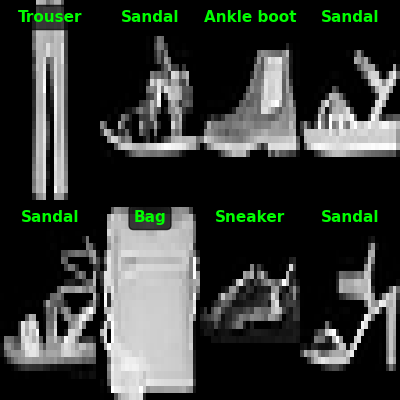
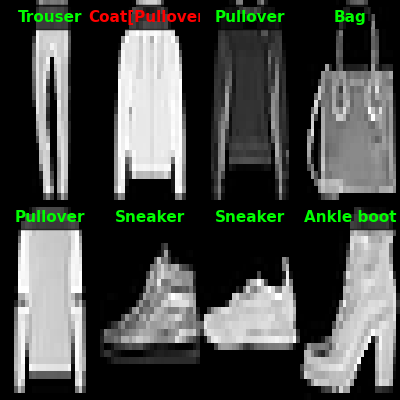
readme update and code comments

diff --git a/src/compair_models.py b/src/compair_models.py
@@ -10,16 +10,17 @@ import random
 
 # 91.27% accuracy  - BASE MODEL
 MODEL_PATH_BASE = "../models/model_base.pth"
-# 90.17% accuracy  - QUANT ONLY MODEL
+# 91.17% accuracy  - QUANT ONLY MODEL (no improvement from retraining)
 MODEL_PATH_QUANT = "../models/model_quant.pth"
-# 86.00% accuracy  - PRUNED ONLY MODEL
+# 86.00% accuracy  - PRUNED ONLY MODEL (no improvement from retraining )
 MODEL_PATH_PRUNED = "../models/model_pruned.pth"
+# MODEL_PATH_PRUNED = "../models/model_pruned_81.50.pth"
 # ~85.00% accuracy - PRUNED + QUANT MODEL
 MODEL_PATH_PRUNED_QUANT = "../models/model_final.pth"
 
 
 def model_get_size(model_path: str) -> float:
-    """Zwraca rozmiar modelu w KB"""
+    """get model size in KB"""
     if not os.path.exists(model_path):
         return None
     size_bytes = os.path.getsize(model_path)
@@ -64,7 +65,7 @@ def plot_comparison(images, labels, predictions_dict, model_info):
     for model_idx, (model_name, predictions) in enumerate(predictions_dict.items()):
         info = model_info[model_name]
 
-        # Tytuł wiersza z informacją o modelu
+        # title name
         row_title = (f"{model_name}\n"
                      f"Size: {info['size_kb']:.1f} KB | "
                      f"Batch: {info['time_batch_ms']:.2f} ms | "
@@ -140,7 +141,7 @@ def main():
             outputs = model(images.to('cpu'))
             predictions = outputs.argmax(dim=1)
 
-        # Zapisz wyniki
+        # save results
         predictions_dict[model_name] = predictions.cpu()
         model_info[model_name] = {
             "size_kb": size_kb,
@@ -148,14 +149,14 @@ def main():
             "time_sample_ms": time_sample
         }
 
-    # Jeśli mamy przynajmniej 1 model, pokaż porównanie
+    # show and plot models
     if len(predictions_dict) > 0:
         print("Generating visual comparison...")
         plot_comparison(images.cpu(), labels.cpu(),
                         predictions_dict, model_info)
         print("Comparison saved to: ../visuals/model_comparison.png")
 
-        # Porównanie kompresji
+        # compair compression
         if "Base (float32)" in model_info:
             base_size = model_info["Base (float32)"]["size_kb"]
             base_time = model_info["Base (float32)"]["time_batch_ms"]

diff --git a/src/quant.py b/src/quant.py
@@ -7,12 +7,14 @@ from model import *
 from hparams import *
 from dataloader import *
 
+from train import train_model
+
 
 def main() -> int:
 
     print("\n\nQuantisizing: float32 -> int8\n\n")
 
-    model_to_quant_path = r"../models/q.pth"
+    model_to_quant_path = r"../models/model_base.pth"
     model_quanted_path = r"../models/model_quant_new.pth"
 
     model_fp32 = model_load(model_to_quant_path)
@@ -25,6 +27,16 @@ def main() -> int:
         {nn.Linear, nn.Conv2d},
         dtype=torch.qint8
     )
+
+    print("Retraining model for 10 epochs")
+    _, criterion, optimizer = model_set()
+    extra_epochs = 10
+
+    model_int8.to("cpu")
+    DEVICE = "cpu"
+    model_int8 = train_model(model_int8, criterion,
+                             optimizer, extra_epochs, False, False)
+    print("Retraining done.")
 
     torch.save(model_int8.state_dict(), model_quanted_path)
     print(f"Quantized model saved in {model_quanted_path}")

diff --git a/src/hparams.py b/src/hparams.py
@@ -23,4 +23,4 @@ FIGURES_PATH = RESULTS_PATH + "assets/"
 TENSORBOARD_LOG_DIR = RESULTS_PATH + "fashion_mnist/"
 MODELS_DIR = "../models/"  # saved models go here
 # model for inference
-MODEL_PATH = "../models/model_pruned.pth"
+MODEL_PATH = "../models/model_base.pth"

diff --git a/readme.md b/readme.md
@@ -1,24 +1,62 @@
 # ESL - LeNet5 Fashion MNIST
 ---
-DESC:
----
+### ***LeNet5 CNN*** with **pruning** and **quantization** (Fashion MNIST dataset)
 ---
 Mateusz Szczęśniak, Wojciech Minior, Kacper Kamiński
 ---
+
+## Overview
+This project implements LeNet5 architecture trained on Fashion MNIST dataset. The goal is to reduce model size and improve inference speed while maintaining acceptable accuracy by using pruning and quantization.
+
+#### Enviroment
+- **GPU** - *GTX 950m (2GB)* 
+- **CPU** - *i5-6300HQ @ 2.30GHz*
+- **System** - *Ubuntu*
+- **Framework** - *PyTorch* 
+
+---
+
+#### Single model inference (base model)
+![Inference_photo](visuals/Fashion_MNIST_Predictions.png "Model Inference")
+(Green label - correct guess, red label, invalid guess)
+
+#### Comparison
+
+![Comparison_photo](visuals/model_comparison.png "Model Comparison")
+*Time measurements are averages from multiple runs on CPU.
+
+**Important Notes:**
+- Structured pruning in PyTorch zeros weights but doesn't physically remove filters from architecture
+- No significant speedup from pruning without manual architecture reduction
+- Quantization provides size reduction but minimal CPU speedup for small models
+- Each compressed model can be optionally retrained for 10 epochs to recover accuracy
+
+### Model Comparison Tool
+
+The project utilities:
+- Model size analysis (KB)
+- Inference time measurements (ms per batch/sample)
+- Accuracy evaluation on test set
+- Visual prediction comparison (8 samples per model)
+- Compression ratio and speedup statistics
+- Generated comparison plots saved to `visuals/`
+  
+
+
 ## Setup
 
 Linux/Mac:
 ```bash
 python -m venv .
 source bin/activate
-pip install torch torchvision numpy pandas matplotlib scikit-learn tqdm
+pip install torch torchvision numpy pandas matplotlib scikit-learn tqdm tensorboard
 ```
 
 Windows:
 ```bash
 python -m venv .
 .\Scripts\activate
-pip install torch torchvision numpy pandas matplotlib scikit-learn tqdm
+pip install torch torchvision numpy pandas matplotlib scikit-learn tqdm tensorboard
 ```
 
 ## TensorBoard
@@ -33,16 +71,22 @@ Hyperparameter tuning logs:
 tensorboard --logdir=results/hparams_tuning_log/
 ```
 
-## Inference
+---
+## Scipt description
+- **hparams.py** - Hyperparameters and global directory paths for training and inference
+- **dataloader.py** - Reads data from /data and creates datasets for the model
+- **hparams_tuning.py** - Hyperparameter tuning (grid search) with TensorBoard logging
+- **model.py** - LeNet5 model and helper functions for model analysis and modification
+- **inference.py** - Single model inference with 8-sample prediction
+- **quant.py** - Runs dynamic quantization
+- **prune.py** - Runs structured pruning (pruning parameters in **model.py**)
+- **compair_models.py** - Compares all models and generates visualizations
+- **train.py** - Trains the model 
 
-Run inference with visualization:
+
+Running scripts:
 ```bash
-python src/inference.py
-```
-
-Change model in `src/hparams.py`:
-```python
-MODEL_PATH = "models/lenet5_fashion_mnist_0.9127.pth"
+python script_name.py
 ```
 
 Available models in `models/` folder.
